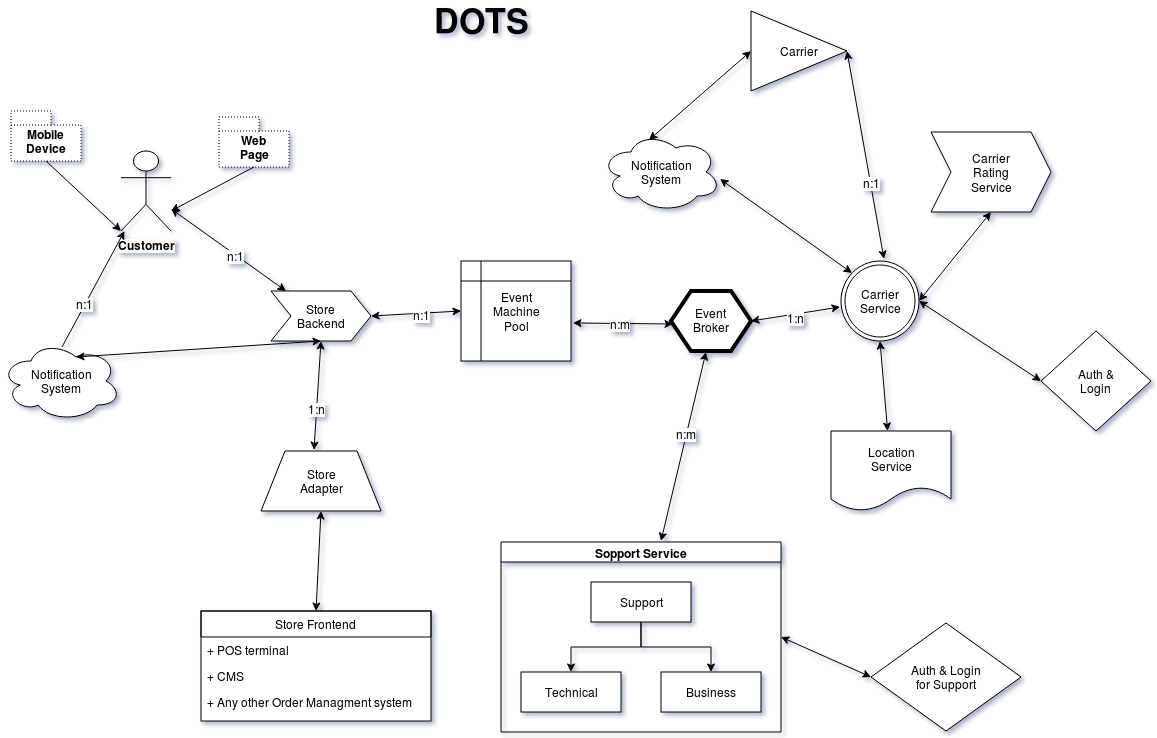
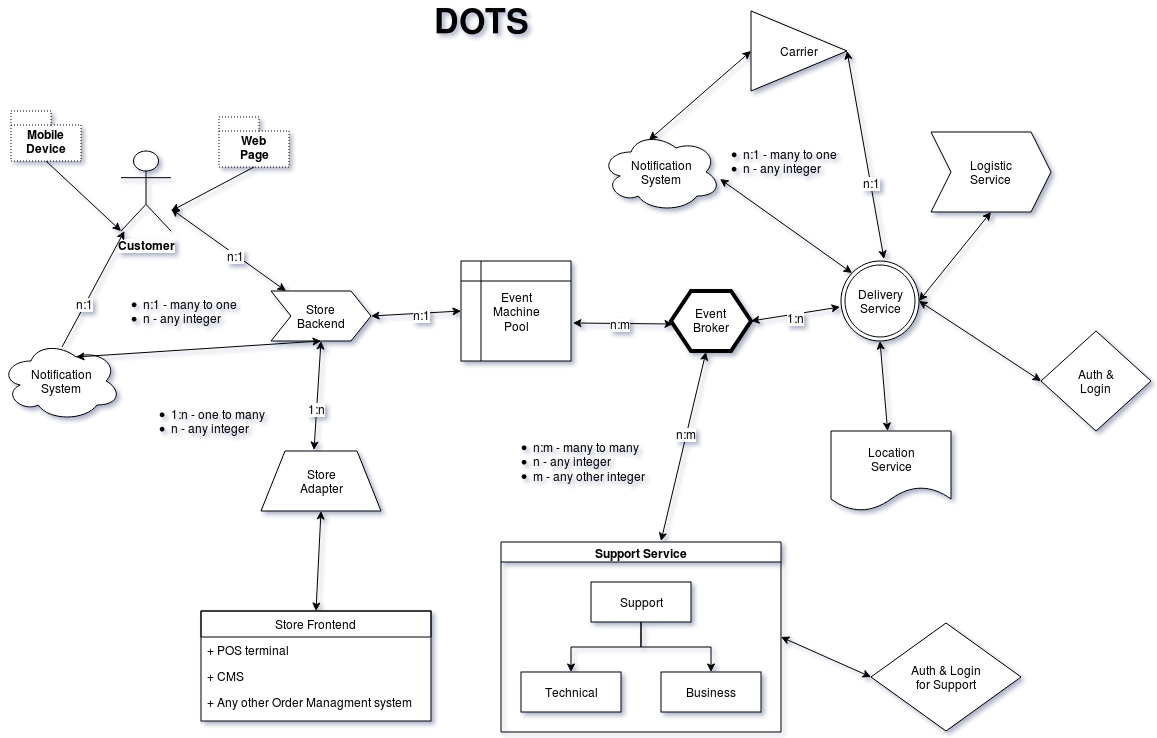
Changed Carruer structure to Delivery, changed scheme

diff --git a/docs/AuthService.md b/docs/AuthService.md
@@ -7,6 +7,8 @@ and Carrier identification.
 * [Login](#login-event)
 * [Registration](#registration-event)
 * [GetToken](#gettoken-event)
+* [Logout](#logout-event)
+* [ForgotPassword](forgotpassword-event)
 
 ### Login Event
 
@@ -61,4 +63,38 @@ and Carrier identification.
 | --- | --- | --- |
 | status* | [status_type](AdditionaServicesGenericTypes.md#status-type) | Response status |
 | token_info | [token_info_type](AdditionaServicesGenericTypes.md#token-info-type) | Token information for User |
+\* reqiered 
+
+### Logout
+
+#### Request Fields:
+
+| Field | Type [min/length/max] | Description | 
+| --- | --- | --- |
+| device_id* | string [100] | Carrier Device ID | 
+\* reqiered
+
+####  Response Fields:
+
+| Field | Type [min/length/max] | Description |
+| --- | --- | --- |
+| status* | [status_type](AdditionaServicesGenericTypes.md#status-type) | Response status |
+\* reqiered 
+
+
+### ForgotPassword
+
+#### Request Fields:
+
+| Field | Type [min/length/max] | Description | 
+| --- | --- | --- |
+| usernamee* | string [255] | Carrier user name |
+| device_id* | string [100] | Carrier Device ID | 
+\* reqiered
+
+####  Response Fields:
+
+| Field | Type [min/length/max] | Description |
+| --- | --- | --- |
+| status* | [status_type](AdditionaServicesGenericTypes.md#status-type) | Response status |
 \* reqiered 

diff --git a/docs/DeliverySegment.md b/docs/DeliverySegment.md
@@ -1,9 +1,10 @@
-# Carrier Management Segment
+# Delivery Segment
 
-Part of DOTS that response of Carrier managment task like
+Part of DOTS that response of Delivery task like
 choose best carrier for delivery, authentication, 
 calculating Carrier ratings. Calculate best direction
 for optimal delivery, Tracking for Drivers movements.
+Logistic optimization etc.
 
 ### Basic componenets is:
 * Carrier Service 
@@ -11,4 +12,4 @@ for optimal delivery, Tracking for Drivers movements.
 * [Auth Service](AuthService.md)
 * Notification Service for Carriers
 * Carrier Apps
-* Carrier Rating
+* Logistic Service

diff --git a/docs/README.md b/docs/README.md
@@ -14,13 +14,13 @@
 * Brokering Segment
 	* Event Machine pool.
 	* Event Broker.
-* [Carrier Management Segment](CarrierManagementSegment.md)
-	* Carrier Service 
+* [Delivery Segment](DeliverySegment.md)
+	* Delivery Service 
 	* Location Service
 	* [Auth Service](AuthService.md)
 	* Notification Service for Carriers
 	* Carrier Apps
-	* Carrier Rating
+	* Logistic Service
 * Supporting Segment
 	* Tech Support Service
 	* Business Support Service
